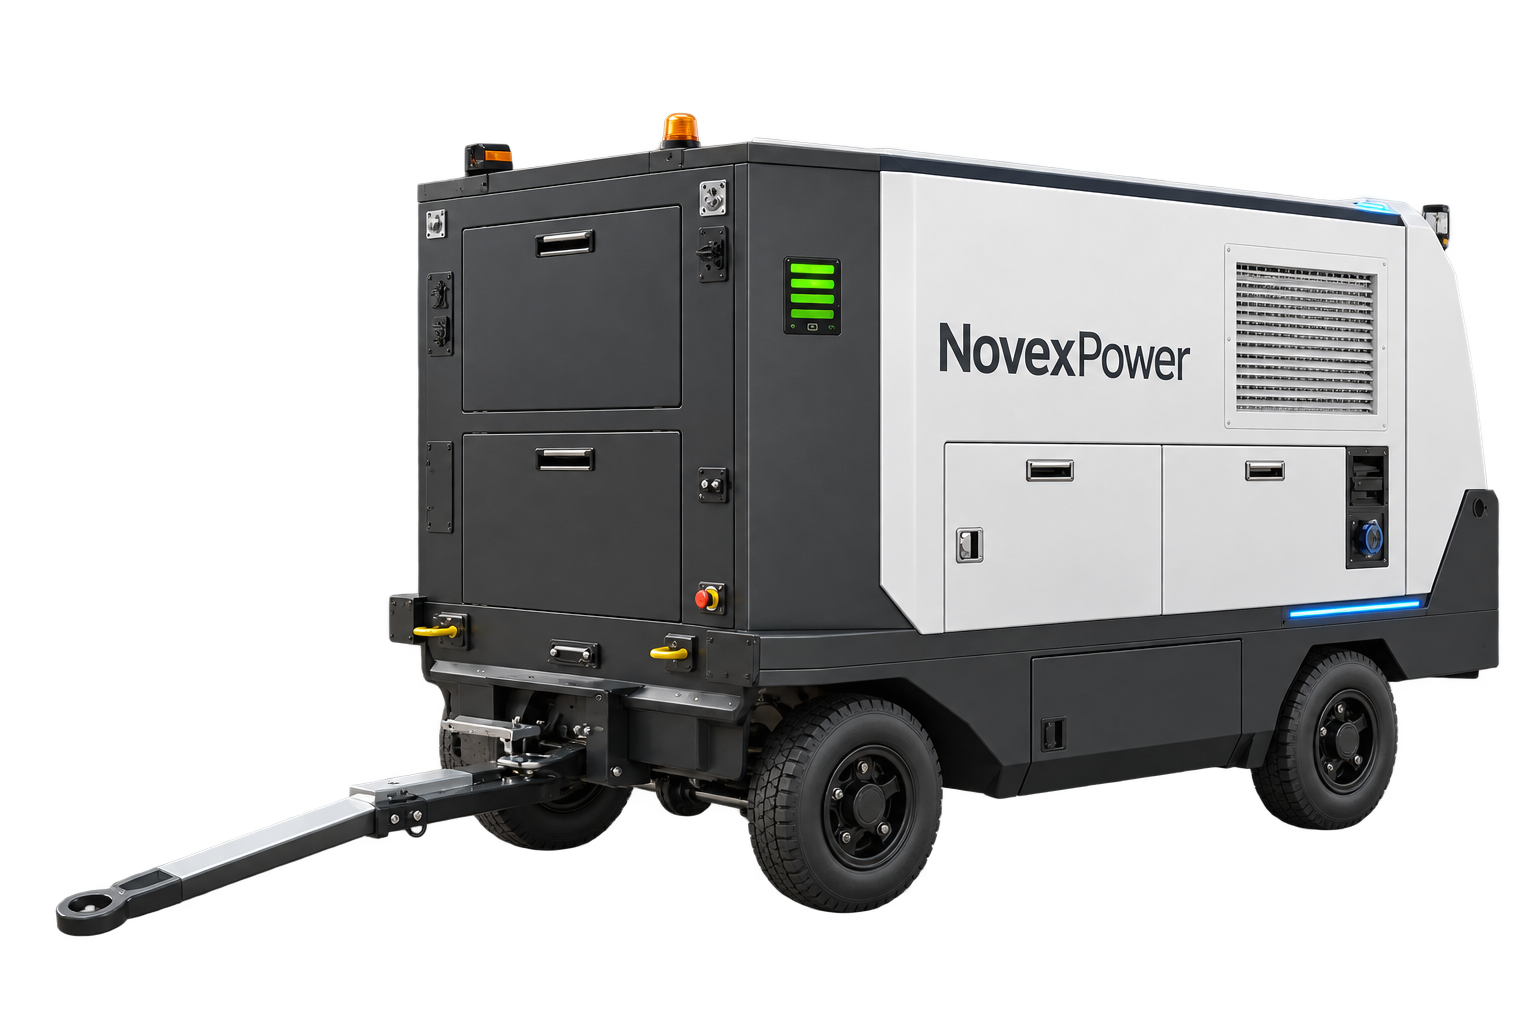
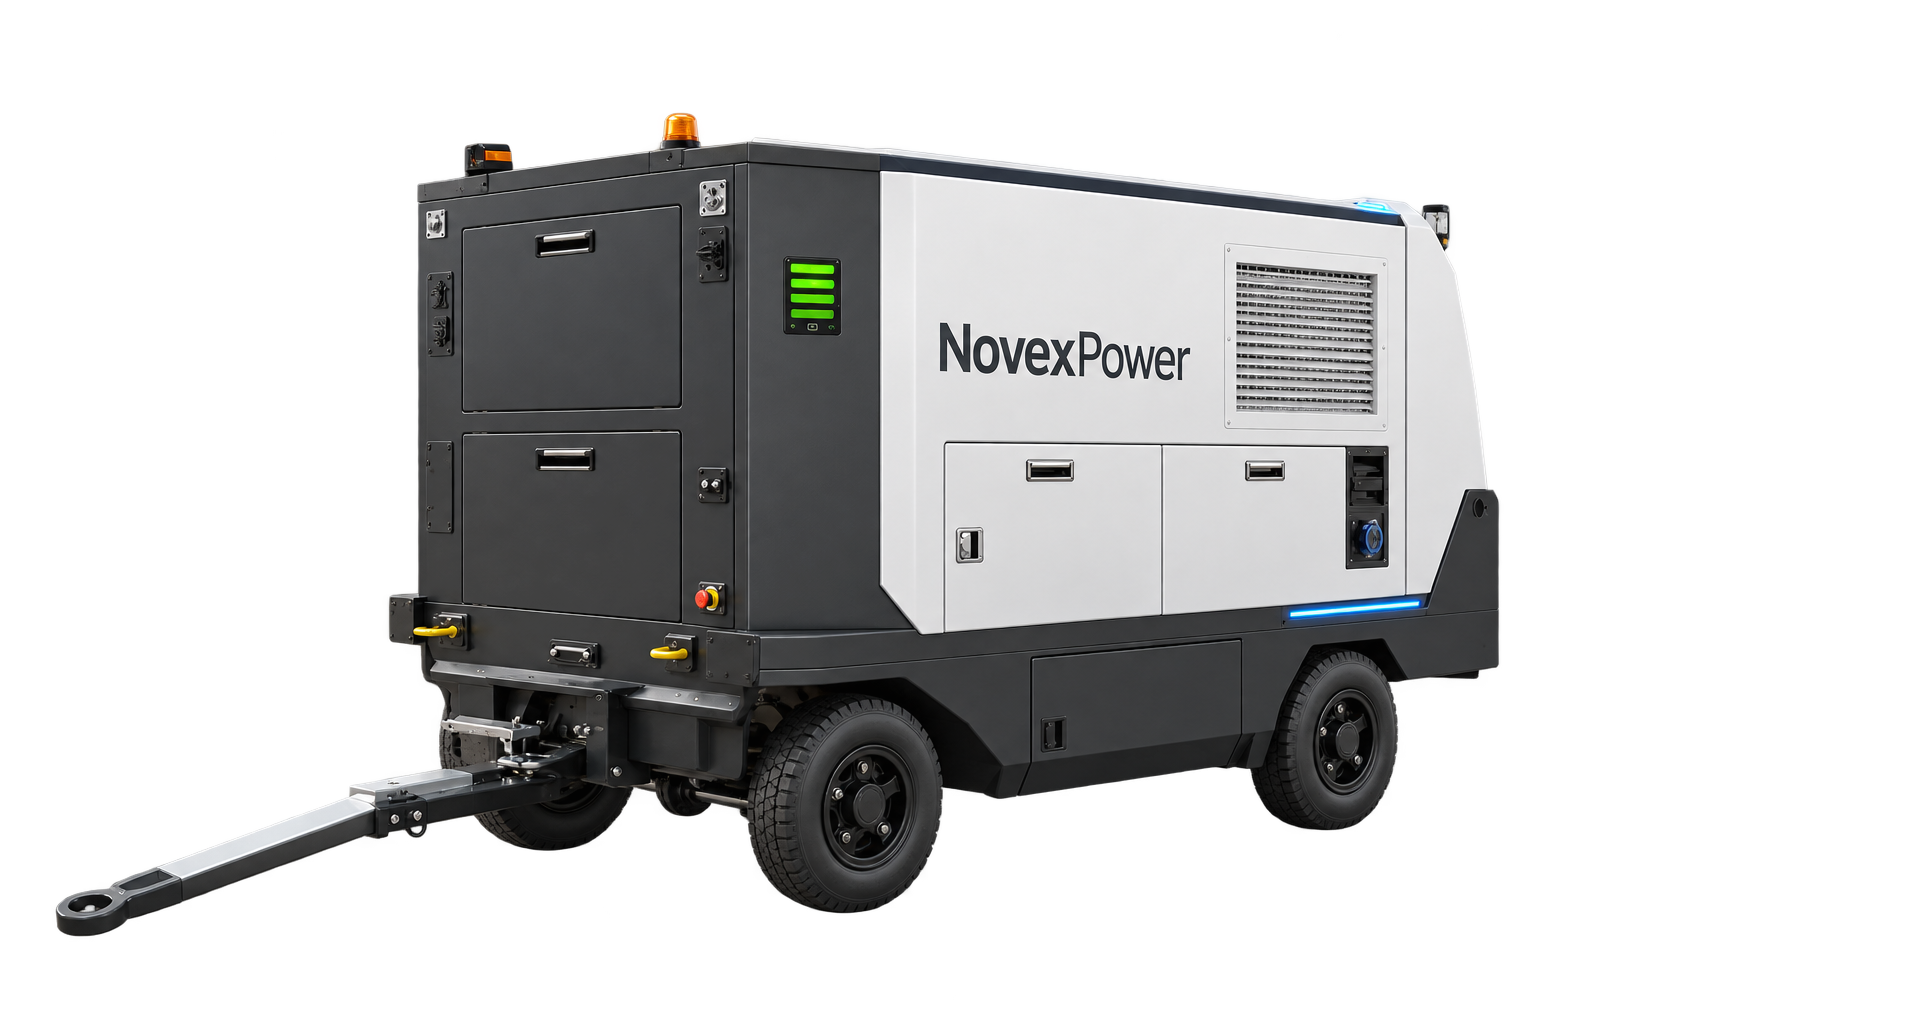
Adjust hero image size and position

diff --git a/src/components/Hero.tsx b/src/components/Hero.tsx
@@ -47,13 +47,13 @@ export function Hero() {
                         width={1200}
                         height={800}
                         quality={75}
-                        sizes="(max-width: 420px) 82vw, (max-width: 640px) 78vw, (max-width: 768px) 72vw, (max-width: 1024px) 64vw, (max-width: 1536px) 56vw, 50vw"
+                        sizes="(max-width: 420px) 82vw, (max-width: 640px) 78vw, (max-width: 768px) 72vw, (max-width: 1024px) 72vw, (max-width: 1536px) 62vw, 56vw"
                         priority={true}
                         unoptimized={false}
                         alt="Hero image"
                         draggable={false}
                         style={{ userSelect: 'none', WebkitUserSelect: 'none', MozUserSelect: 'none' }}
-                        className="mx-auto z-10 w-full max-w-[14rem] sm:max-w-[22rem] md:max-w-[31rem] lg:max-w-[40rem] xl:max-w-[46rem] 2xl:max-w-[52rem] h-auto select-none rounded-lg sm:rounded-xl object-cover"
+                        className="mx-auto -translate-x-8 sm:-translate-x-10 z-10 w-full max-w-[15rem] sm:max-w-[23rem] md:max-w-[33rem] lg:max-w-[43rem] xl:max-w-[49rem] 2xl:max-w-[55rem] h-auto select-none rounded-lg sm:rounded-xl object-cover"
                     />
                 </div>
             </div>
